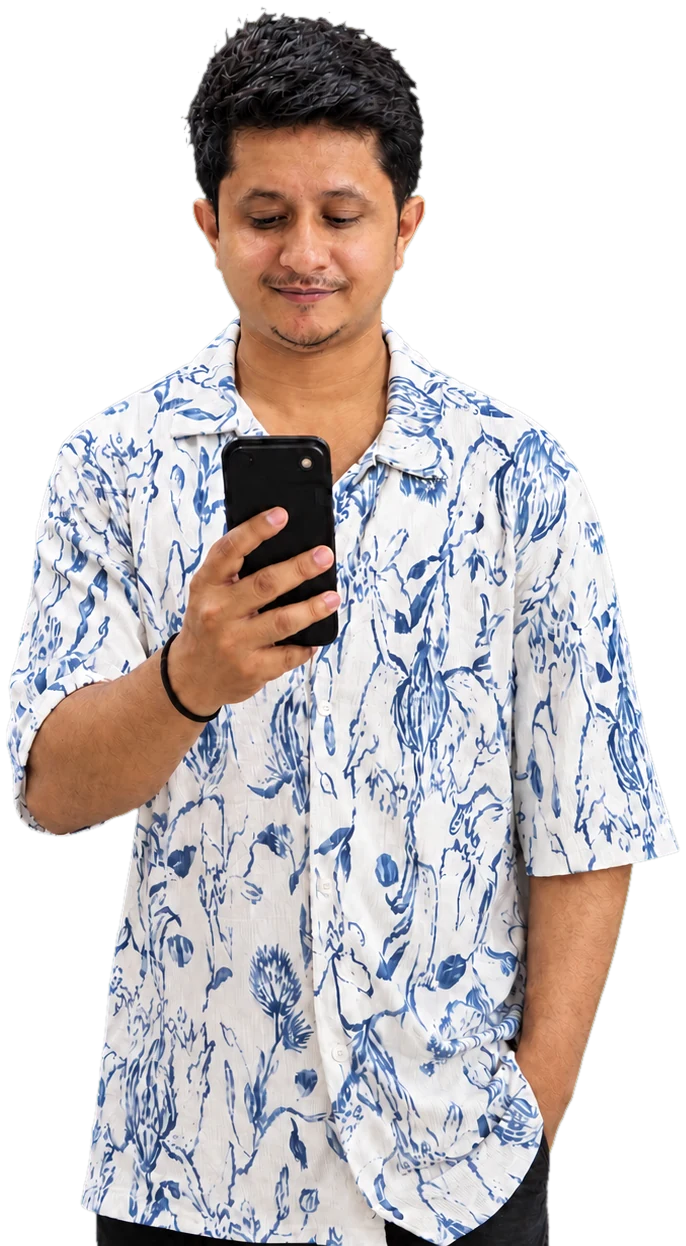
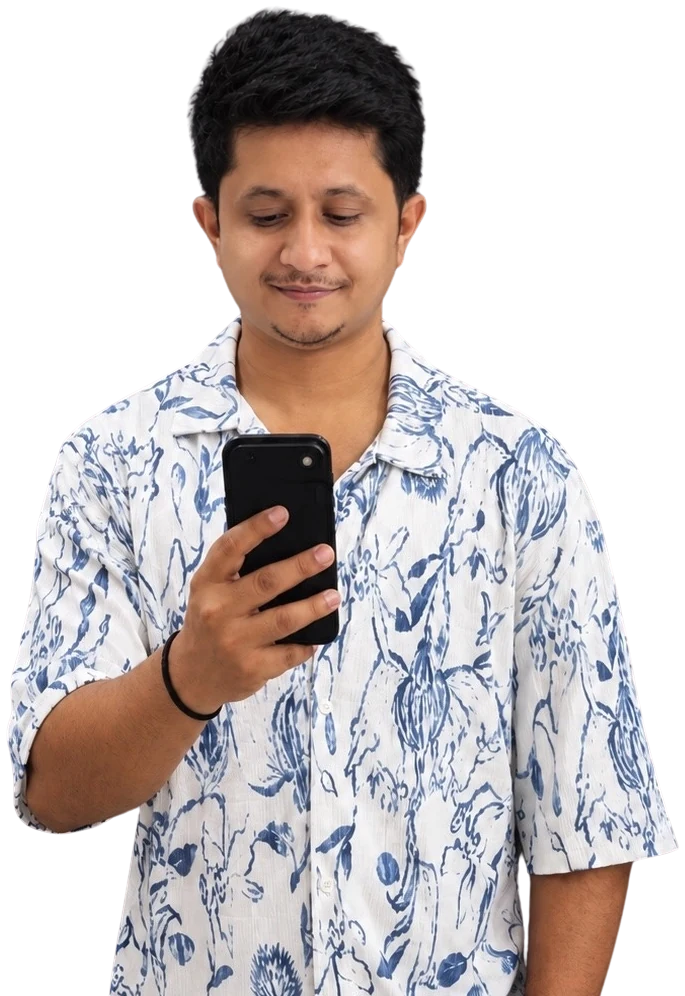
02: Nitish's own cutout in the hero, bottom 20% trimmed, figure sized up to the sheet's limit
Claude-Session: https://claude.ai/code/session_01XfFywDmuMByKX4aTc2T151

diff --git a/src/lab/02-field/field.css b/src/lab/02-field/field.css
@@ -98,8 +98,10 @@
 /* the person: clipped by the tile's sides and bottom, free to rise above it (ref 3: ~1.5× the tile's height).
    The clip sits above the tile's background and the "behind" cards; the front cards sit above the clip. */
 .t.hero02 { z-index: 2; }
-.person-clip { position: absolute; left: 0; right: 0; bottom: 0; top: -62%; overflow: hidden; border-radius: 0 0 var(--r) var(--r); z-index: 2; pointer-events: none; }
-.person { position: absolute; bottom: -1.2%; left: 50%; height: 93.5%; width: auto; transform: translateX(-50%); filter: drop-shadow(0 22px 28px rgba(0, 0, 0, .16)); }
+.person-clip { position: absolute; left: 0; right: 0; bottom: 0; top: -64%; overflow: hidden; border-radius: 0 0 var(--r) var(--r); z-index: 2; pointer-events: none; }
+/* the figure (Nitish's own cutout, bottom 20% trimmed) stands ~1.57× the tile's height: the most the sheet's top edge
+   allows with the feet-end on the tile's bottom; a literal 1.5× zoom of the earlier size would put the head outside the sheet */
+.person { position: absolute; bottom: -1%; left: 50%; height: 96%; width: auto; transform: translateX(-50%); filter: drop-shadow(0 22px 28px rgba(0, 0, 0, .16)); }
 .fc { position: absolute; z-index: 3; transform: translate(var(--px, 0px), var(--py, 0px)); transition: transform .35s cubic-bezier(.2, .8, .2, 1); }
 .fc.behind { z-index: 1; }
 .fc-in { background: var(--card); color: var(--ink); border-radius: clamp(12px, 1.5cqw, 20px); box-shadow: 0 18px 40px -18px rgba(0, 0, 0, .45); padding: clamp(9px, 1.1cqw, 15px) clamp(11px, 1.3cqw, 17px); animation: float var(--dur, 5s) ease-in-out infinite; animation-delay: var(--dl, 0s); }
@@ -205,8 +207,8 @@
     grid-template-areas: "hero hero" "life life" "micro projects" "xp team" "tools brand" "reel reel"; }
   /* hero first, so the head rises into the sheet's top padding and not over another tile */
   .t.hero02 { min-height: 440px; margin-top: 36px; }
-  .person-clip { top: -28%; }
-  .person { height: 92%; }
+  .person-clip { top: -30%; }
+  .person { height: 88%; }
   /* the cards keep their places but shrink; title and description share the bottom band */
   .fc-in { padding: 9px 11px; }
   .fc.ai { left: 2% !important; top: 0 !important; }

diff --git a/src/lab/02-field/Iteration02.tsx b/src/lab/02-field/Iteration02.tsx
@@ -163,11 +163,11 @@ export default function Iteration02() {
             <span className="shape" style={{ right: '7%', top: '48%' }} />
             <span className="shape tri" style={{ left: '15%', top: '52%' }} />
             {/* the assistant: liquid glass, over his arm, as if it had come off the phone */}
-            <div className="fc glass ai" data-depth="1.3" style={{ left: '9%', top: '2%', '--dur': '5.6s', '--dl': '-1s' } as React.CSSProperties}>
+            <div className="fc glass ai" data-depth="1.3" style={{ left: '6%', top: '2%', '--dur': '5.6s', '--dl': '-1s' } as React.CSSProperties}>
               <div className="fc-in"><BAssistant /><span className="cap">AI assistant interaction</span></div>
             </div>
             {/* the coin, behind his shoulder */}
-            <div className="fc behind coin-card" data-depth=".6" style={{ right: '15%', top: '1%', '--dur': '7s', '--dl': '-3.3s' } as React.CSSProperties}>
+            <div className="fc behind coin-card" data-depth=".6" style={{ right: '9%', top: '1%', '--dur': '7s', '--dl': '-3.3s' } as React.CSSProperties}>
               <div className="fc-in"><Coin className="coin" /><span className="cap">Rupee · faux 3D</span></div>
             </div>
             {/* the title: name + the rolling word */}

diff --git a/LOG.md b/LOG.md
@@ -80,7 +80,7 @@ Route: `/lab/02-field`. Composition: ref 3's grid, Nitish's content, ocean/sky p
 
 ### Hero card — spec (Nitish, 7 Oct; built in v6)
 
-1. **Photo.** Body facing front, looking into the phone (as ref 3's person does); centre-aligned, no more right offset. Second photo received 7 Oct (`docs/refs/photo-2-phone-pose.jpg`): this pose on a dark grey studio background; the same pose on the green screen followed (`docs/refs/photo-2-phone-pose-green.png`) and is the one used — chroma-keyed like the first, cropped to the figure, stored as WebP with alpha (`src/assets/nitish-phone-cutout.webp`, 686 × 1246).
+1. **Photo.** Body facing front, looking into the phone (as ref 3's person does); centre-aligned, no more right offset. Second photo received 7 Oct (`docs/refs/photo-2-phone-pose.jpg`): this pose on a dark grey studio background; the same pose on the green screen followed (`docs/refs/photo-2-phone-pose-green.png`) and was keyed for v6; since v7 the file in use is Nitish's own cutout of the pose (`docs/refs/photo-3-phone-pose-cutout.png`), bottom 20% trimmed, stored as WebP with alpha (`src/assets/nitish-phone-cutout.webp`, 685 × 996).
 2. **Meaning.** The assets floating around him stand for what he's looking at on the phone and what he's built. No extra visual device to say so; the floating cards do it exactly as ref 3 does.
 3. **Placement.** Cards sit close to the body, not far out: some behind him (masked by the body), some in front, overlapping the shirt. What to do with the card's remaining width is decided later.
 4. **Glass.** The glass card becomes more transparent; preferred: liquid glass.
@@ -93,6 +93,7 @@ Route: `/lab/02-field`. Composition: ref 3's grid, Nitish's content, ocean/sky p
 6. The current stand-in cards (play count, easing bars, switch) give way to this set.
 
 **History**
+- v7 — (Nitish) his own cutout replaces the keyed one (`docs/refs/photo-3-phone-pose-cutout.png`, alpha included, softer edge); the figure's bottom 20% trimmed (hem and pocket go, the tile now cuts at the lower shirt) and the figure sized up: ~1.57× the tile's height, head to within ~30px of the sheet's top. Asked for 1.5× on the earlier size; that would put the head outside the sheet, so this is the most the top edge allows — `.person-clip { top }` and `.person { height }` in field.css are the two numbers. Side cards nudged outward for the wider figure. Phones: the figure is wider than the tile, so the sleeves clip at its sides.
 - v6 — (Nitish) the hero card rebuilt to the spec above, in one pass: the green-screen phone pose keyed and centred (1.5× the tile, head over the row above, waist clipped by the tile); four cards close to the body — the assistant on liquid glass over his right arm (in front; the arm shows through blurred), the coin tucked behind his left shoulder (masked by the figure), the title card over the shirt bottom-left, the description card bottom-right; the play, easing-bars and switch cards gone. Liquid glass: near-clear fill, 18px blur with lifted saturation, a bright rim that catches light top-left, a soft inner glow; dark-mode variants. Phones: the same four cards, smaller; title above-left, description below-right so they never meet.
 - v1 — first build of the home grid from ref 3.
 - v2 — (Nitish) background and shadows as in 01: near-white sheet on the grey page, 01's shadow.
